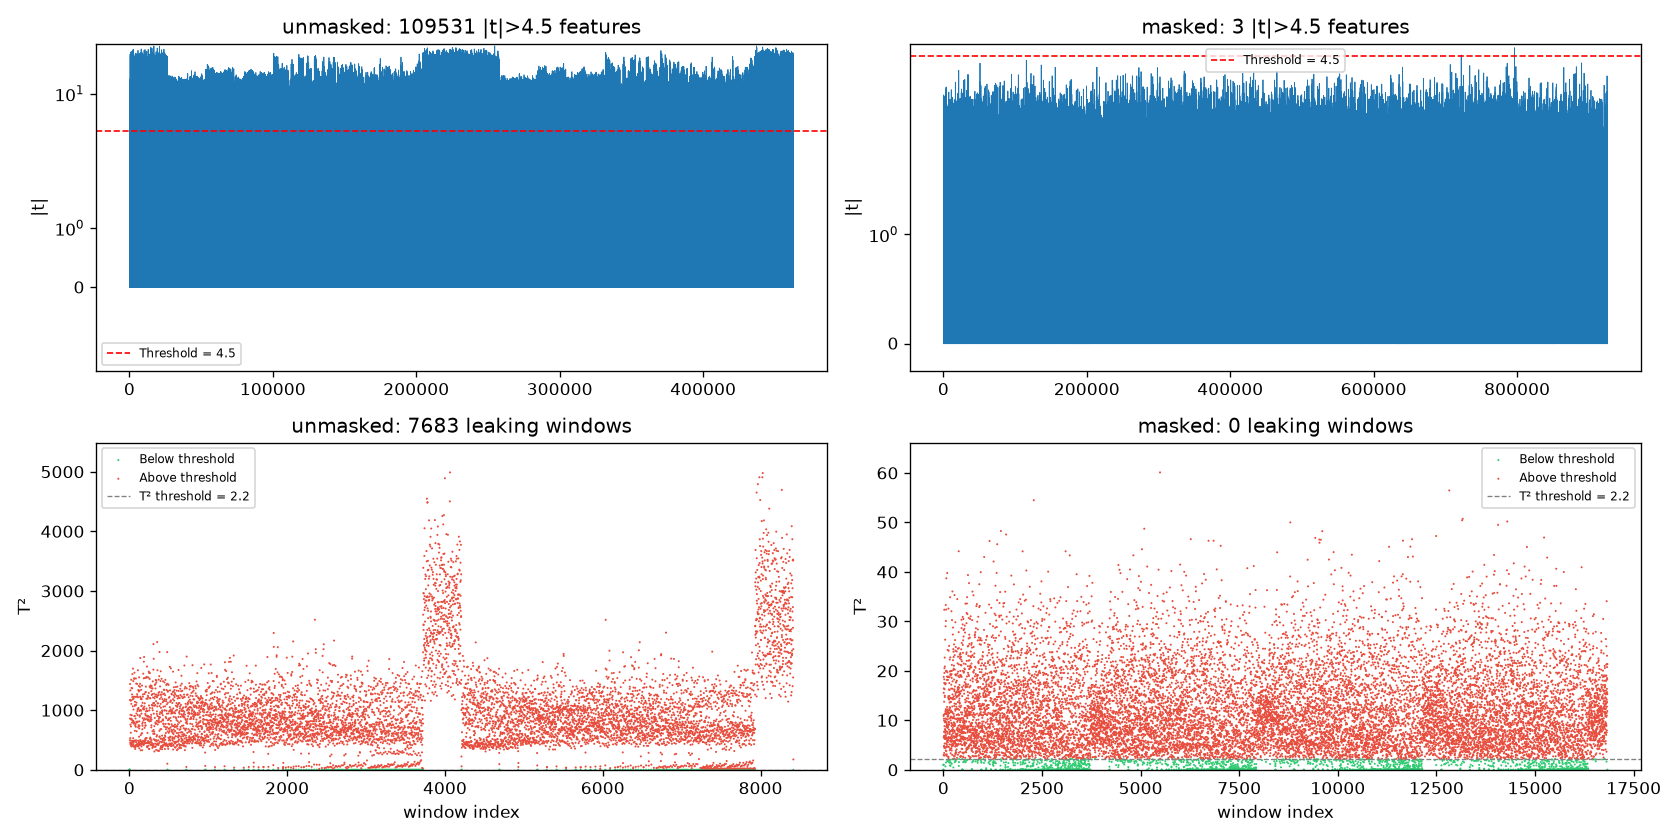
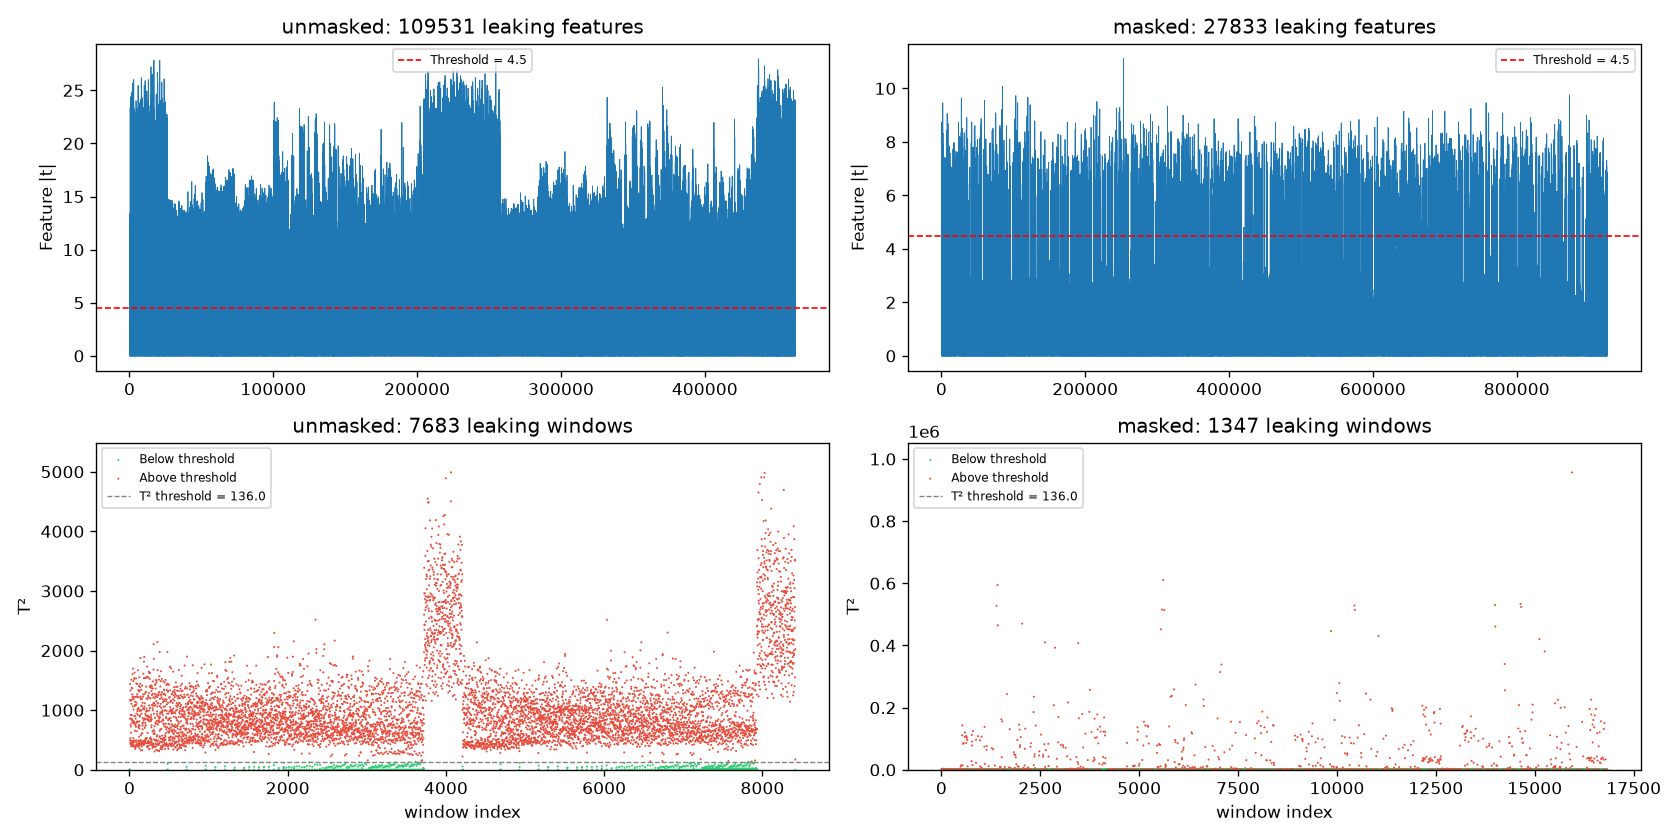
Integrate table figure generation, fix injected leak counts, clean up joint audit output, restore table_gen.py

diff --git a/tvla_analysis.py b/tvla_analysis.py
@@ -290,13 +290,24 @@ def print_joint_leak_audit(masked_result, inject_meta, args):
         print("  ...")
 
     multi_detected = sum(1 for m in window_metrics if m["flagged"])
+
+    # Count leaking features ONLY within injected windows (for the univariate test)
+    inject_threshold = tvla.DEFAULT_TVLA_THRESHOLD
+    t_stats = masked_result["t_stats"]
+    n_injected_features = n_injected * features_per_window
+    uni_detected_injected = 0
+    for w in inject_indices:
+        w = int(w)
+        w_start = w * features_per_window
+        w_end = w_start + features_per_window
+        leaked_in_window = np.count_nonzero(np.abs(t_stats[w_start:w_end]) > inject_threshold)
+        uni_detected_injected += leaked_in_window
     print("-" * 120)
     print("  summary:")
-    print("    injected windows                    = {}".format(n_injected))
-    print("    univariate detected (of {})         = {}   (target: noise floor)".format(n_injected, masked_result["univariate"]))
-    print("    multivariate detected (of {})        = {}".format(n_injected, multi_detected))
-    print("    leakage clearly missed by Welch     = {}   <- multivariate strictly stronger".format(
-        max(0, multi_detected)))
+    print("    injected windows                  = {}".format(n_injected))
+    print("    injected features                 = {}".format(n_injected_features))
+    print("    univariate detected (of {})       = {}   (target: noise floor)".format(n_injected_features, uni_detected_injected))
+    print("    multivariate detected (of {})     = {} windows".format(n_injected, multi_detected))
     print("=" * 120)
 
 
@@ -378,6 +389,75 @@ def _make_summary_figure(results, args):
     return fig
 
 
+def _make_table_figure(results, args):
+    """Save a compact table summarising leakage detection results.
+
+    4 rows: unmasked/masked × univariate/multivariate.
+    Columns: Implementation, Method, Statistical Test, Threshold, Detected Leakage.
+    """
+    import matplotlib.pyplot as plt
+    from matplotlib.font_manager import FontProperties
+
+    threshold = tvla.DEFAULT_TVLA_THRESHOLD
+    alpha = tvla.DEFAULT_ALPHA
+    order2 = args.order == 2
+
+    rows_data = []
+    for name, r in results.items():
+        # Univariate row
+        uni_label = "Welch's t-test"
+        uni_thresh = "|t| > {:.2f}".format(threshold)
+        uni_leak = "{:,} features".format(r["univariate"])
+        method = "Univariate"
+        rows_data.append((name, method, uni_label, uni_thresh, uni_leak))
+
+        # Multivariate row
+        mv_label = "Hotelling's T\u00b2"
+        nu = 2 * args.nb_fixed - (args.window_size if not order2 else (args.second_order_window_size * (args.second_order_window_size + 1) // 2)) - 1
+        nu = max(nu, 1)
+        d = args.second_order_window_size * (args.second_order_window_size + 1) // 2 if order2 else args.window_size
+        alpha_str = "{:.3e}".format(alpha)
+        mv_thresh = "\u03b1 = {}".format(alpha_str)
+        mv_leak = "{:,} windows (of {:,})".format(r["multivariate"], r["n_windows"])
+        method = "Multivariate"
+        rows_data.append((name, method, mv_label, mv_thresh, mv_leak))
+
+    col_labels = ["Implementation", "Method", "Statistical Test", "Threshold", "Detected Leakage"]
+    num_rows = len(rows_data) + 1
+    row_colors = ["#f5f5f5", "#ffffff"] * 10
+
+    grid = [col_labels] + [[cell for cell in row] for row in rows_data]
+
+    fig, ax = plt.subplots(figsize=(10, 3))
+    ax.axis("off")
+
+    col_widths = [0.14, 0.14, 0.22, 0.18, 0.32]
+    table = ax.table(cellText=grid, cellLoc="center", colWidths=col_widths, loc="center")
+    table.auto_set_font_size(False)
+
+    cell_h = 0.16
+    bold_font = FontProperties(weight="bold")
+    normal_font = FontProperties()
+    for (r, c), cell in table.get_celld().items():
+        cell.set_height(cell_h)
+        cell.set_text_props(fontproperties=normal_font, fontsize=9)
+        if r == 0:
+            cell.set_text_props(fontproperties=bold_font, fontsize=9.5, color="white")
+            cell.set_facecolor("#2c3e50")
+            cell.set_height(cell_h * 1.15)
+        else:
+            cell.set_facecolor(row_colors[r - 1])
+            if c == 0:
+                cell.set_text_props(fontweight="bold")
+            if c == 4:
+                cell.set_text_props(fontweight="bold")
+        cell.set_edgecolor("#cccccc")
+        cell.set_linewidth(0.5)
+
+    fig.subplots_adjust(left=0.04, right=0.96, top=0.88, bottom=0.1)
+    return fig
+
+
 def make_plots(results, args):
     """Save the technical detail plot (|t| per point/feature + T² per window)."""
     try:
@@ -456,6 +536,14 @@ def make_plots(results, args):
     plt.close(summary)
     print("Saved summary to {}".format(summary_out))
 
+    # Save the comparison table figure
+    if not args.no_table:
+        table_fig = _make_table_figure(results, args)
+        table_out = os.path.join(REPO_ROOT, "tvla_table.png")
+        table_fig.savefig(table_out, dpi=150)
+        plt.close(table_fig)
+        print("Saved table to {}".format(table_out))
+
 
 # --------------------------------------------------------------------------
 # Main
@@ -478,6 +566,8 @@ def parse_args():
                         help="save per-version t-stats / T^2 to tvla_stats.npz")
     parser.add_argument("--no-plots", action="store_true",
                         help="do not save tvla_results.png")
+    parser.add_argument("--no-table", action="store_true",
+                        help="do not save tvla_table.png")
     parser.add_argument("--order", type=int, choices=[1, 2], default=1,
                         help="TVLA order: 1=first-order (default), 2=second-order centered-product")
     parser.add_argument("--second-order-window-size", type=int, default=10,

diff --git a/table_gen.py b/table_gen.py
@@ -1,0 +1,85 @@
+#!/usr/bin/env python3
+"""Generate a table image (PNG) comparing the Kyber NTT TVLA datasets."""
+
+import matplotlib
+matplotlib.use("Agg")
+import matplotlib.pyplot as plt
+
+# ─── DATA ────────────────────────────────────────────────────────────────────
+# Each inner list/tuple is one row, in the exact column order.
+TABLE_COLUMNS = [
+    "Dataset",
+    "Implementation",
+    "Traces (Total)",
+    "Trace Length",
+    "Purpose",
+]
+
+TABLE_DATA = [
+    [
+        "Unmasked",
+        "ML-KEM NTT",
+        "512",
+        "93,142 samples",
+        "TVLA",
+    ],
+    [
+        "Masked",
+        "ML-KEM NTT",
+        "512",
+        "168,352 samples",
+        "TVLA",
+    ],
+]
+
+
+# ─── RENDERING ──────────────────────────────────────────────────────────────
+def save_table_png(
+    path: str = "table.png",
+    columns: list[str] | None = None,
+    data: list[list] | None = None,
+    nrows: int = 12,
+    ncols: int = 5,
+) -> None:
+    columns = columns or TABLE_COLUMNS
+    data = data or TABLE_DATA
+
+    fig, ax = plt.subplots(figsize=(10, 3))
+    ax.axis("tight")
+    ax.axis("off")
+
+    table = ax.table(
+        cellText=data,
+        colLabels=columns,
+        loc="center",
+    )
+    table.auto_set_font_size(False)
+    table.set_fontsize(10.5)
+    table.scale(1.0, 1.9)
+
+    # header
+    for j in range(ncols):
+        cell = table[0, j]
+        cell.set_facecolor("#4472C4")
+        cell.set_text_props(color="white", weight="bold", ha="center")
+
+    # body rows
+    for i in range(1, len(data) + 1):
+        bg = "#D9E1F2" if i % 2 == 0 else "#FFFFFF"
+        for j in range(ncols):
+            cell = table[i, j]
+            cell.set_facecolor(bg)
+            cell.set_text_props(ha="center")
+
+    plt.savefig(path, dpi=200, bbox_inches="tight", facecolor="white")
+    plt.close(fig)
+
+
+# ─── ENTRY POINT ────────────────────────────────────────────────────────────
+def main() -> None:
+    save_table_png()
+    print("Saved to table.png")
+
+
+if __name__ == "__main__":
+    main()
